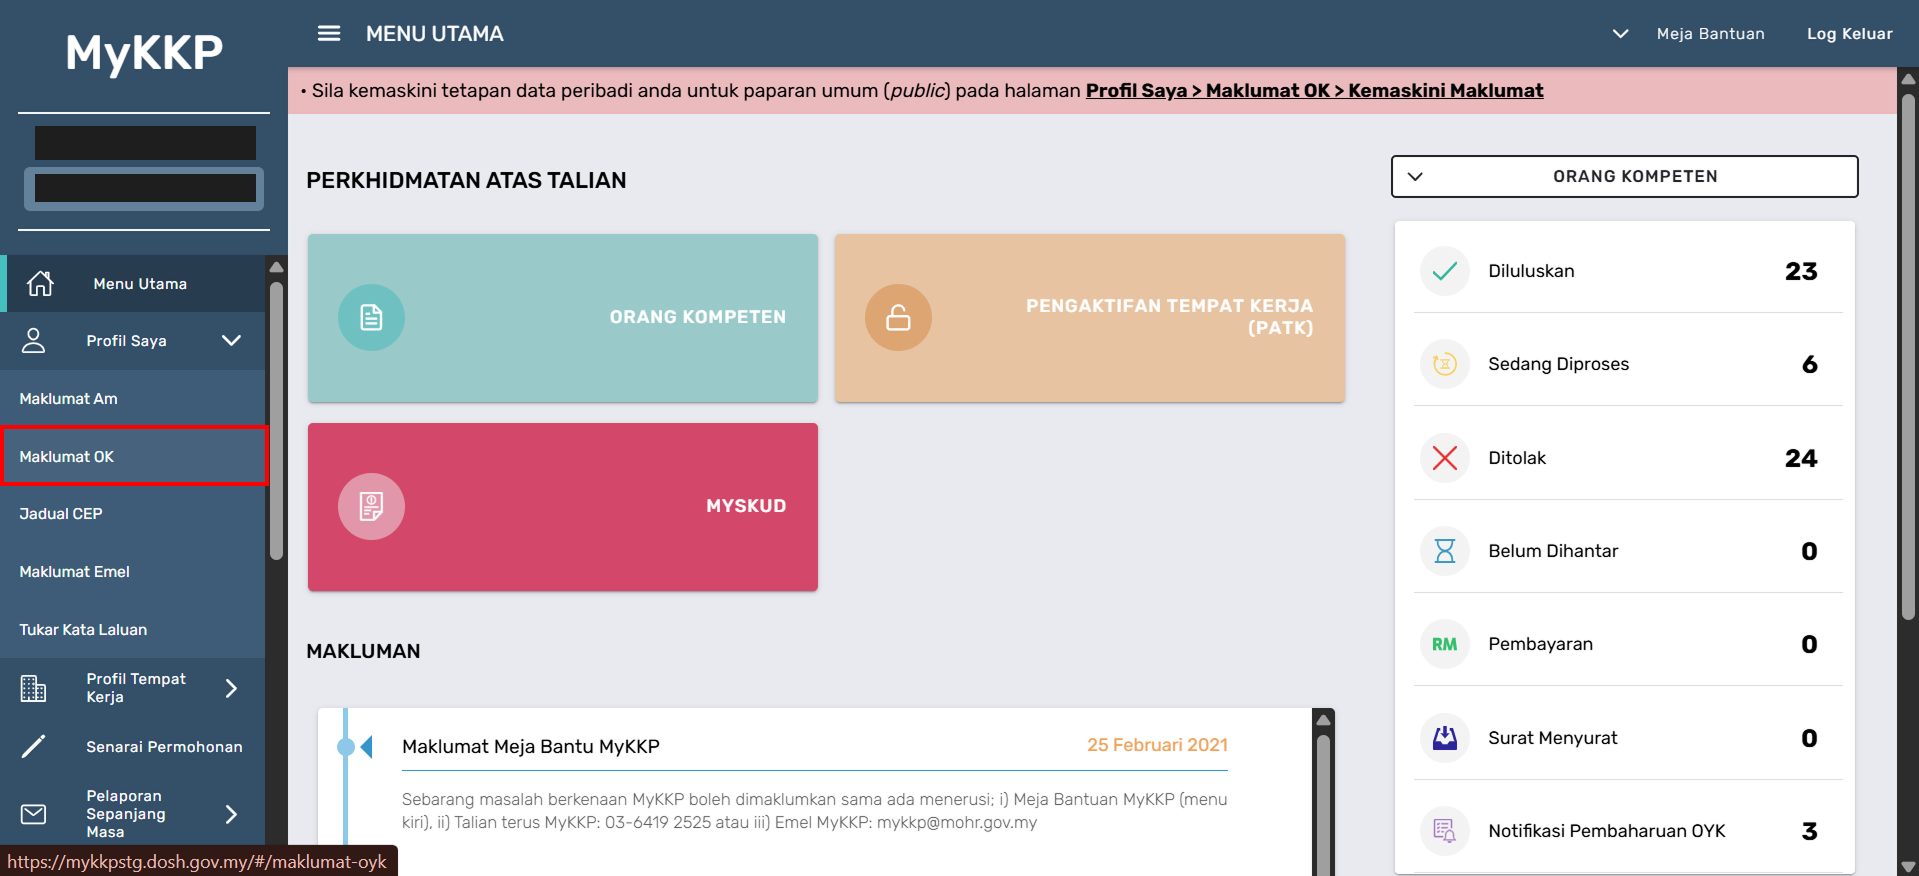
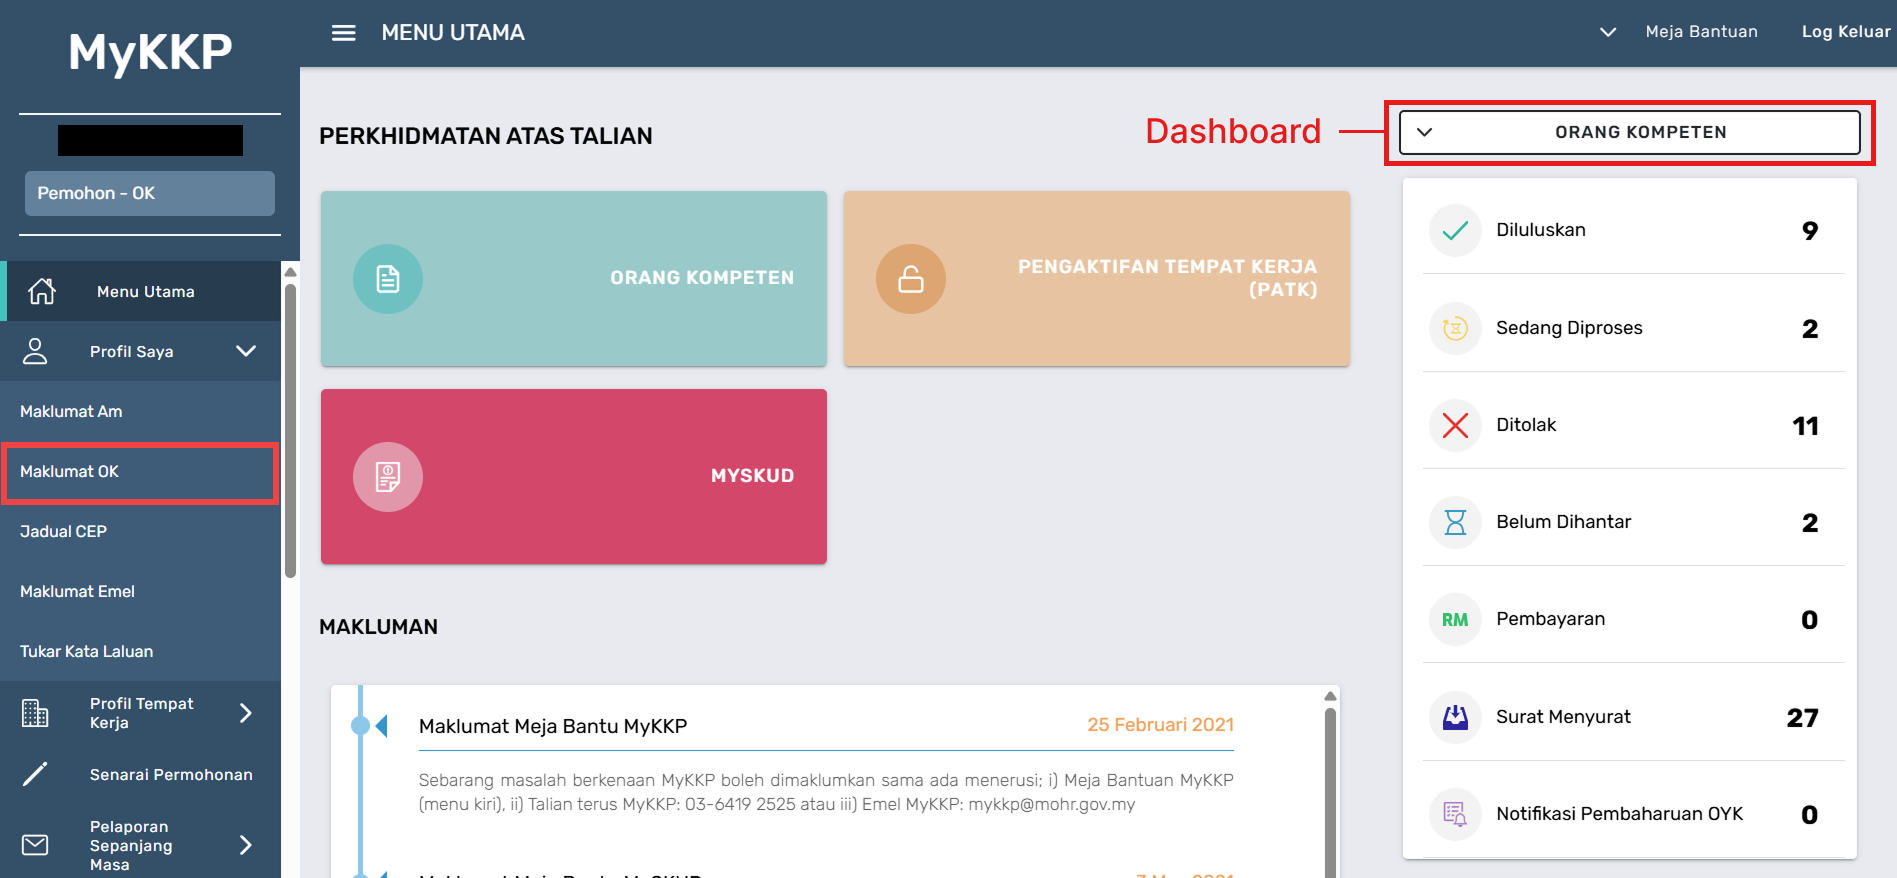
update page pelaporan ok

diff --git a/src/components/menu-pelaporan-oyk.tsx b/src/components/menu-pelaporan-oyk.tsx
@@ -2,68 +2,76 @@ import React from 'react';
 import ExpandableImage from '@site/src/components/common/ExpandableImage';
 import Admonition from '@site/src/components/admonition';
 
-interface LangkahMaklumatOykProps {
+import imgMenu from '@site/assets/images/orang-kompeten/pelaporan/menu_pelaporan.png';
+import imgMaklumatOK from '@site/assets/images/orang-kompeten/pelaporan/maklumat_ok.png';
+
+
+interface MenuPelaporanOKProps {
   stepNumber: number;
-  lamanPemohonImgSrc?: string;
-  subMenuProfilImgSrc?: string;
-  maklumatOykImgSrc?: string;
+  pageName: string;
+  kategoriPermohonan: string;
+  moduleName: string;
+  moduleType: string;
+  hasDropdown: boolean;
 }
 
-export default function LangkahMaklumatOyk({
+export default function MenuPelaporanOK({
   stepNumber,
-  lamanPemohonImgSrc,
-  subMenuProfilImgSrc,
-  maklumatOykImgSrc,
-}: LangkahMaklumatOykProps) {
+  pageName,
+  kategoriPermohonan,
+  moduleName,
+  moduleType,
+  hasDropdown
+}: MenuPelaporanOKProps) {
   return (
-    <div className="step-card">
-      <h3>Langkah {stepNumber}: Laman Maklumat OYK</h3>
+    <div>
+
+      <ExpandableImage
+        src={imgMenu}
+        alt={`Halaman Menu Utama`}
+        caption={`Halaman Menu Utama`}
+        width={650}
+      />
 
       <ol>
-        <li>Skrin <b>Pemohon</b> akan dipaparkan.</li>
-        <li>Klik menu <b>Profil Saya</b> di sebelah kiri.</li>
-      </ol>
-
-      <ExpandableImage
-        src={lamanPemohonImgSrc}
-        alt="Laman Pemohon"
-        caption="Laman Pemohon"
-        width={650}
-      />
-
-      <ol start={3}>
-        <li>Sub-menu <b>Profil Saya</b> akan dipaparkan.</li>
-        <li>Klik pada sub-menu <b>Maklumat OYK</b>.</li>
-      </ol>
-
-      <ExpandableImage
-        src={subMenuProfilImgSrc}
-        alt="Sub-menu Profil Saya"
-        caption="Sub-menu Profil Saya"
-        width={650}
-      />
-
-      <ol start={5}>
-        <li>Halaman <b>Maklumat OYK</b> akan dipaparkan.</li>
-        <li>Skrol ke bawah dan pergi ke bahagian <b>Senarai Permohonan Yang Diluluskan</b>.</li>
-        <li>Klik butang <b>Lihat Sijil</b> untuk melihat sijil.</li>
-        <li>Klik butang <b>Baru</b> untuk membuat permohonan baru.</li>
-        <li>Klik butang <b>Pelaporan OYK</b>.</li>
-      </ol>
-
-      <ExpandableImage
-        src={maklumatOykImgSrc}
-        alt="Maklumat OYK"
-        caption="Maklumat OYK"
-        width={650}
-      />
-
-      <ol start={10}>
-        <li>Halaman <b>Pelaporan OYK</b> akan dipaparkan pada tab baru.</li>
+        <li>Pada halaman <b>Menu Utama</b>, klik pada butang <b>Profil Saya</b> dan seterusnya pada butang <b>{kategoriPermohonan}</b>.</li>
       </ol>
 
       <Admonition type="info">
-        Butang <b>Pelaporan OYK</b> digunakan untuk memulakan permohonan pelaporan bagi Orang Yang Kompeten.
+      <ul>  
+        <li>Pastikan dashboard yang dipilih adalah dashboard <b>Orang Kompeten</b>.</li>
+      </ul>
+      </Admonition>
+            
+      <ExpandableImage
+        src={imgMaklumatOK}
+        alt="Halaman Profil Saya - Maklumat OK / Orang Terlatih"
+        caption="Halaman Profil Saya - Maklumat OK / Orang Terlatih"
+        width={650}
+      />
+
+      <ol start={2}>
+        <li>Halaman <b>{pageName}</b> akan dipaparkan.</li>
+        <li>Skrol ke bawah dan pergi ke bahagian <b>Senarai Kompetensi Yang Diluluskan</b>.</li>
+        <li>Klik butang <b>Lihat Slip</b> untuk melihat paparan <b>Slip Ringkas Perakuan Pendaftaran</b>.</li>
+        <li>Klik butang <b>Pembaharuan</b> untuk membuat permohonan pembaharuan bagi Orang Kompeten yang akan atau telah tamat tempoh.</li>
+        <li>Klik butang <b>Pelaporan OK</b> untuk membuat pelaporan Orang Kompeten bagi modul yang dikehendaki.</li>
+      </ol>
+
+        <Admonition type="info">
+
+        <p>Bagi <b>Pelaporan OK</b>, modul Orang Kompeten yang terlibat adalah seperti berikut:</p>
+        <ul>
+          <li><b>Penaksir Risiko Bising (OYKPEB)</b></li>
+          <li><b>Juruteknik Higien 1 (OYKJHI)</b></li>
+          <li><b>Juruteknik Higien 2 (OYKJHII)</b></li>
+          <li><b>Pengapit (OYKCHRA)</b></li>
+          <li><b>Kualiti Udara Dalaman (OYKIAQ)</b></li>
+          <li><b>Penguji Gas Bertauliah dan Penyelia Kemasukan (OYKAGTES)</b></li>
+          <li><b>Penyelia Keselamatan Tapak Bina (OYKSSS)</b></li>
+          <li><b>Pegawai Keselamatan dan Kesihatan (OYKSHO)</b></li>
+          <li><b>Major Hazard (OYKMH)</b></li>
+        </ul>
       </Admonition>
     </div>
   );

diff --git a/sidebars.ts b/sidebars.ts
@@ -231,6 +231,12 @@ const sidebars: SidebarsConfig = {
           label: 'Medical Surveillance',
           className: 'hideItem',
         },
+        {
+          type: 'doc',
+          id: 'orang-kompeten/pelaporan-OK',
+          label: 'Pelaporan Orang Kompeten',
+          className: 'hideItem',
+        },
       ],
     },
     // Pendaftaran Tempat Kerja

diff --git a/src/components/tab-ok/dokumen-sokongan.tsx b/src/components/tab-ok/dokumen-sokongan.tsx
@@ -60,10 +60,10 @@ export default function OkDokumenSokongan({
                 width={650}
             />
             <ol>
-                <li>Klik butang <img src={iconMuatNaik} style={{ width: 15 }} /> untuk memuat naik dokumen <b>PDF</b> yang berkenaan pada medan bersyarat <b>Wajib</b>.</li>
+                <li>Klik butang  <img src={iconMuatNaik} style={{ width: 15 }} />  untuk memuat naik dokumen <b>PDF</b> yang berkenaan pada medan bersyarat <b>Wajib</b>.</li>
                 <li>Isi medan <b>Diskripsi</b> dan klik butang <b><i>Choose File</i></b> untuk memilih dokumen.</li>
                 <li>Klik butang <b>Simpan</b>. <i>Pop-up</i> mesej berjaya akan dipaparkan dan klik butang <b>OK</b>.</li>
-                <li>Dokumen yang berjaya dimuat naik akan dipaparkan dalam <b>Jadual Senarai Dokumen</b></li>
+                <li>Dokumen yang berjaya dimuat naik akan dipaparkan dalam jadual <b>Senarai Dokumen</b>.</li>
                 <li>Klik butang <b>Tutup</b>. Pada kolum <b> Bil. Fail</b> akan menunjukkan jumlah bilangan fail yang telah dimuat naik.</li>
             </ol>
             <Admonition type="warning">

diff --git a/src/components/menu-ok.tsx b/src/components/menu-ok.tsx
@@ -44,8 +44,6 @@ import React from 'react';
 import Admonition from '@site/src/components/admonition';
 import ExpandableImage from './common/ExpandableImage';
 
-import imgMenu from '@site/assets/images/orang-kompeten/menu_utama.png';
-
 interface MenuOkProps {
   stepNumber: number;
   pageName: string;

diff --git a/docs/orang-kompeten/pelaporan-OK.md b/docs/orang-kompeten/pelaporan-OK.md
@@ -1,0 +1,171 @@
+---
+title: PELAPORAN ORANG KOMPETEN (OK)
+description: Panduan lengkap Pelaporan Orang Kompeten
+hide_table_of_contents: false
+sidebar_label: 'Pelaporan OK'
+---
+
+import Admonition from '@site/src/components/admonition';
+import ExpandableImage from '@site/src/components/common/ExpandableImage';
+import React from 'react';
+import Tabs from '@theme/Tabs';
+import TabItem from '@theme/TabItem';
+import Link from '@docusaurus/Link';
+
+# 📝 Pelaporan Orang Kompeten (OK)
+
+import LoginStep from '@site/src/components/login-step';
+
+<div className="step-card">
+
+### Akses Halaman Log Masuk 
+
+<LoginStep 
+  stepNumber={1}
+  title="Akses Halaman Log Masuk MyKKP" />
+</div>
+
+import MenuPelaporanOK from '@site/src/components/menu-pelaporan-oyk';
+
+<div className="step-card">
+
+### Halaman Maklumat OK / Orang Terlatih
+  
+<MenuPelaporanOK
+    stepNumber={2}
+    pageName="Maklumat OK / Orang Terlatih"
+    kategoriPermohonan="Maklumat OK"
+     />
+</div>
+
+<div className="step-card">
+
+### Pengisian Pelaporan Orang Kompeten (OK)
+#### Tab 1: Maklumat Pemohon
+
+import imgTabMaklumatPemohonPEB1 from '@site/assets/images/orang-kompeten/pelaporan/tab_maklumatpemohon_peb1.png';
+import imgTabMaklumatPemohonPEB2 from '@site/assets/images/orang-kompeten/pelaporan/tab_maklumatpemohon_peb2.png';
+import imgTabMaklumatPemohon from '@site/assets/images/orang-kompeten/pelaporan/tab_maklumatpemohon.png';
+import popupCarianTK from '@site/assets/images/orang-kompeten/pelaporan/popup_carian_TK.png';
+
+<div>
+
+Halaman <b>Pelaporan Orang Kompeten</b> berdasarkan jenis <b>Orang Kompeten</b> adalah seperti berikut:
+
+<div className="step-card">
+  <Tabs>
+    <TabItem value="OYKPEB" label="Orang Kompeten Penaksir Risiko Bising (OYKPEB)" default>
+      <h4 className="print-only">A. Pelaporan OK - Penaksir Risiko Bising (OYKPEB)</h4>
+      <ExpandableImage
+        src={imgTabMaklumatPemohonPEB1}
+        alt="Paparan Tab 1: Maklumat Pemohon - Orang Kompeten Penaksir Risiko Bising (OYKPEB)"
+        caption="Paparan Tab 1: Maklumat Pemohon - Orang Kompeten Penaksir Risiko Bising (OYKPEB)" 
+        width={650} 
+      />
+      <Admonition type="tip">
+      Medan <b>Tarikh Mula Penaksiran, Tarikh Akhir Penaksiran</b> dan jadual <b>Penaksiran Risiko Bising</b> hanya akan dipaparkan jika modul <b>Orang Kompeten Penaksir Risiko Bising (OYKPEB)</b> dipilih.       
+    </Admonition>
+      <ol>
+          <li>Halaman <b>Tab 1: Maklumat Pemohon</b> akan dipaparkan.</li>
+          <li>Klik butang <b>Carian</b> pada medan <b>No. Daftar Tempat Kerja</b> untuk membuat carian maklumat tempat kerja.</li>
+      </ol>
+      <ExpandableImage
+        src={popupCarianTK}
+        alt="Paparan pop-up Carian Tempat Kerja"
+        caption={
+                 <>
+                    Paparan <i>pop-up</i> Carian Tempat Kerja
+                </>
+                }
+        width={650}
+      />
+      <ol start={3}>
+        <li>Isi nama tempat kerja pada medan <b>Carian Majikan</b> dan klik butang <b>Cari</b>.</li>
+        <li>Klik butang <b>Pilih</b> pada nama tempat kerja yang dikehendaki. Maklumat tempat kerja akan dipaparkan.</li>
+         <li>Pilih tarikh pada medan <b>Tarikh Mula Penaksiran</b> dan <b>Tarikh Akhir Penaksiran</b>.</li>
+        <li>Isi maklumat yang diperlukan pada medan ruangan yang disediakan.</li>
+        <li>Klik butang <b>Simpan</b> untuk menyimpan maklumat yang telah diisi.</li>
+      </ol>  
+      <ExpandableImage
+        src={imgTabMaklumatPemohonPEB2}
+        alt="Paparan Tab 1: Maklumat Pemohon - OYKPEB setelah disimpan"
+        caption="Paparan Tab 1: Maklumat Pemohon - OYKPEB setelah disimpan"
+        width={650}
+      />
+      <ol start={8}>
+        <li>Jadual <b>Penaksiran Risiko Bising</b> akan dipaparkan.</li>
+        <li>Klik butang <b>Tambah</b> untuk menambah maklumat penaksiran risiko bising.</li>
+        <li>Klik butang <b>Kemaskini</b> untuk mengemaskini maklumat yang telah ditambah.</li>
+        <li>Klik butang <b>Hapus</b> untuk menghapuskan maklumat penaksiran yang dikehendaki.</li>
+        <li>Klik butang <b>Seterusnya</b> untuk ke halaman tab selanjutnya.</li>
+      </ol>  
+    </TabItem>
+    <TabItem value="selainOYKPEB" label="Selain Penaksir Risiko Bising (OYKPEB)">
+      <h4 className="print-only">B. Pelaporan OK - Selain Penaksir Risiko Bising (OYKPEB)</h4>
+      <ExpandableImage
+        src={imgTabMaklumatPemohon}
+        alt="Contoh Paparan Pelaporan Orang Kompeten - Selain Penaksir Risiko Bising (OYKPEB)"
+        caption="Contoh Paparan Pelaporan Orang Kompeten - Selain Penaksir Risiko Bising (OYKPEB)" />
+      <ol>
+          <li>Halaman <b>Tab 1: Maklumat Pemohon</b> akan dipaparkan.</li>
+          <li>Klik butang <b>Carian</b> pada medan <b>No. Daftar Tempat Kerja</b> untuk membuat carian maklumat tempat kerja.</li>
+      </ol>
+      <ExpandableImage
+        src={popupCarianTK}
+        alt="Paparan pop-up Carian Tempat Kerja"
+        caption={
+                 <>
+                    Paparan <i>pop-up</i> Carian Tempat Kerja
+                </>
+                }
+        width={650}
+      />
+      <ol start={3}>
+        <li>Isi nama tempat kerja pada medan <b>Carian Majikan</b> dan klik butang <b>Cari</b>.</li>
+        <li>Klik butang <b>Pilih</b> pada nama tempat kerja yang dikehendaki. Maklumat tempat kerja akan dipaparkan.</li>
+        <li>Isi maklumat yang diperlukan pada medan ruangan yang disediakan.</li>
+        <li>Klik butang <b>Seterusnya</b> untuk ke halaman tab selanjutnya.</li>
+      </ol>  
+    </TabItem>
+   </Tabs>
+</div>
+</div>
+
+
+---
+
+import OkDokumenSokongan from '@site/src/components/tab-ok/dokumen-sokongan';
+
+import imgOkDokumenSokongan from '@site/assets/images/orang-kompeten/pelaporan/tab_dokumen_sokongan.png';
+
+<OkDokumenSokongan
+    tabNumber={2}
+    tabName="Dokumen Sokongan"
+    tabImgSrc={imgOkDokumenSokongan} />
+
+6. Klik butang <b>Hantar</b> untuk menghantar maklumat pelaporan orang kompeten.
+7. <b>Perakuan Penghantaran Pelaporan OK</b> akan dipaparkan pada halaman tab baru.
+8. <i>Pop-up</i> no. rujukan <b>Pelaporan OK</b> akan dipaparkan.
+9. Klik butang <b>OK</b>.
+</div>
+
+<div className="step-card">
+
+### Semakan Maklumat Pelaporan OK
+
+import imgSenaraiPelaporanOK from '@site/assets/images/orang-kompeten/pelaporan/senarai_pelaporan_ok.png';
+
+<ExpandableImage
+        src={imgSenaraiPelaporanOK}
+        alt="Halaman Maklumat OK / Orang Terlatih - Senarai Pelaporan OK"
+        caption="Halaman Maklumat OK / Orang Terlatih - Senarai Pelaporan OK"
+        width={650}
+/>
+
+<ol>
+    <li>Kembali semula ke halaman <b>Profil Saya - Maklumat OK / Orang Terlatih</b>.</li>
+    <li>Skrol ke bawah dan pergi ke bahagian <b>Senarai Pelaporan OK</b>.</li>
+    <li>Klik butang <b>Lihat</b> pada <b>Senarai Pelaporan OK</b> yang dikehendaki.</li>
+    <li>Halaman <b>Pelaporan Orang Kompeten</b> yang telah dihantar akan dipaparkan pada tab baru.</li>
+</ol>
+</div>

diff --git a/docs/orang-kompeten/orang-kompeten.md b/docs/orang-kompeten/orang-kompeten.md
@@ -204,3 +204,21 @@ Sila klik jenis orang kompeten dibawah 👇 untuk melihat cara mendapatkan **Sij
 </div>
   </div>
 </div>
+
+<div className="toc-only">
+### [📋 Pelaporan Orang Kompeten](#toLoginStep)
+</div>
+<div className="step-card">
+  <h3 style={{ textAlign: "center" }}>
+    📋 Pelaporan Orang Kompeten
+  </h3>
+
+  <div className="doc-card-row one-items">
+    <div className="doc-card">
+      <h4>Pelaporan Orang Kompeten (OK)</h4>
+      <div className="doc-card-actions">
+        <Link to="/docs/orang-kompeten/pelaporan-OK" className="doc-card-action">Pelaporan OK</Link>
+      </div>
+    </div>
+    </div>
+  </div>